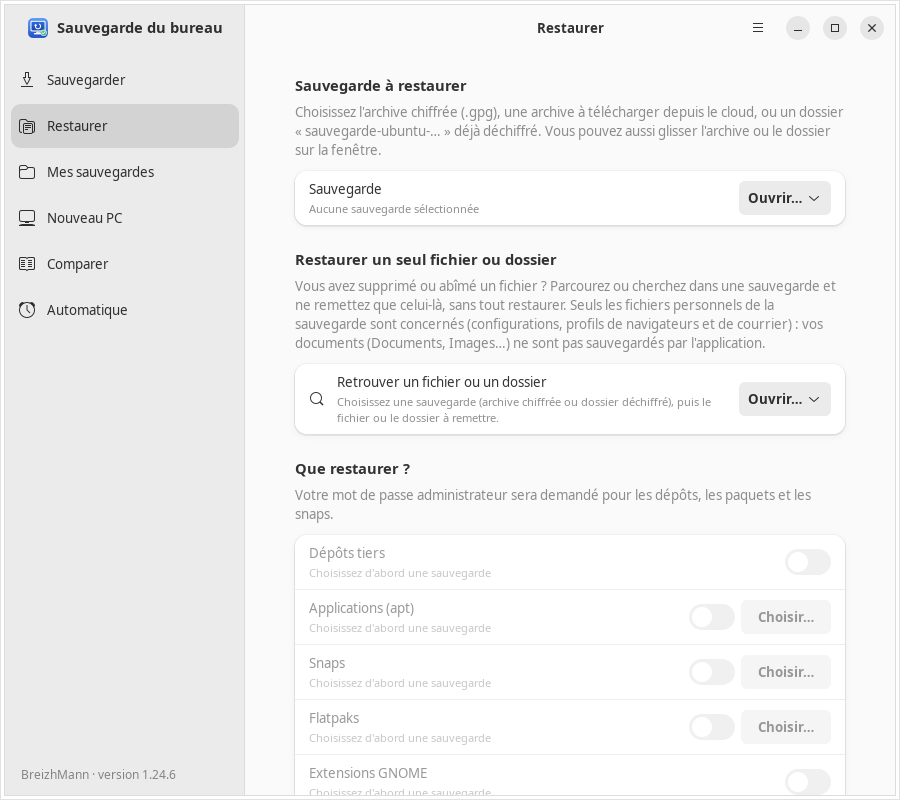
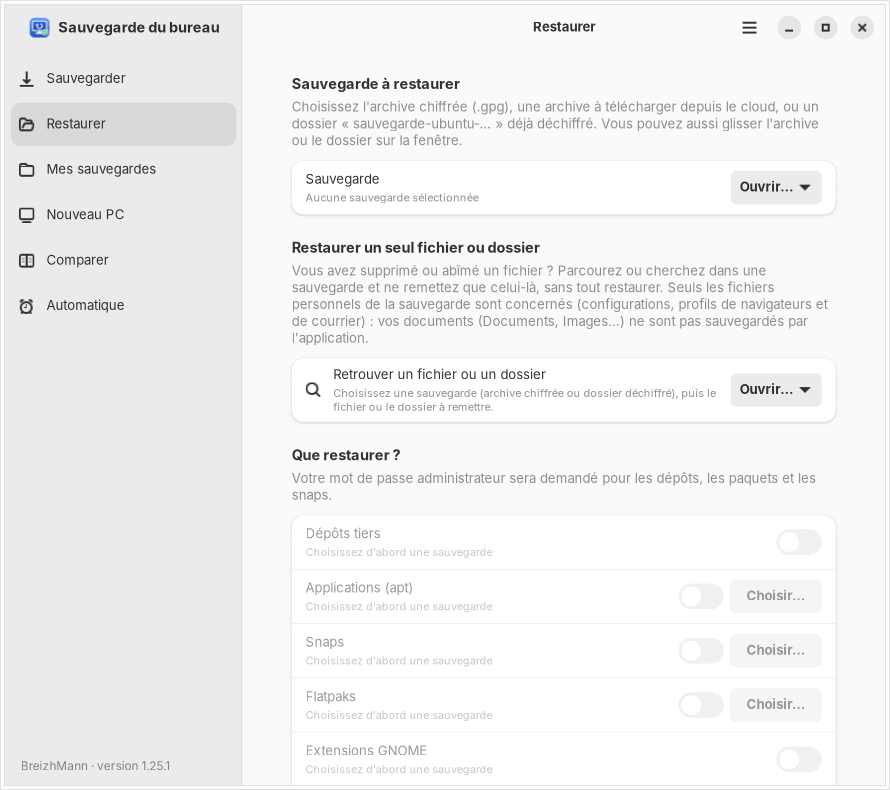
Version 1.25.1 : captures en anglais

diff --git a/pkg/usr/lib/python3/dist-packages/sauvegarde_bureau/__init__.py b/pkg/usr/lib/python3/dist-packages/sauvegarde_bureau/__init__.py
@@ -1,3 +1,3 @@
-__version__ = "1.25.0"
+__version__ = "1.25.1"
 __author__ = "BreizhMann"
 __date__ = "2026-10-15"  # dernière mise à jour (AAAA-MM-JJ)

diff --git a/README.en.md b/README.en.md
@@ -6,7 +6,7 @@ A GNOME application (GTK4 / libadwaita) to **back up and restore your Ubuntu des
 
 > **Note:** the interface is available in English and French, following your system language. The code's source language is French.
 
-![Backup page](docs/screenshots/01-sauvegarder.png)
+![Backup page](docs/screenshots/en/01-backup.png)
 
 ## What it backs up
 
@@ -28,7 +28,7 @@ A GNOME application (GTK4 / libadwaita) to **back up and restore your Ubuntu des
 
 | Restore | New PC | Automatic |
 |---|---|---|
-| ![](docs/screenshots/02-restaurer.png) | ![](docs/screenshots/04-nouveau-pc.png) | ![](docs/screenshots/06-automatique.png) |
+| ![](docs/screenshots/en/02-restore.png) | ![](docs/screenshots/en/04-new-pc.png) | ![](docs/screenshots/en/06-automatic.png) |
 
 ## Installation
 
